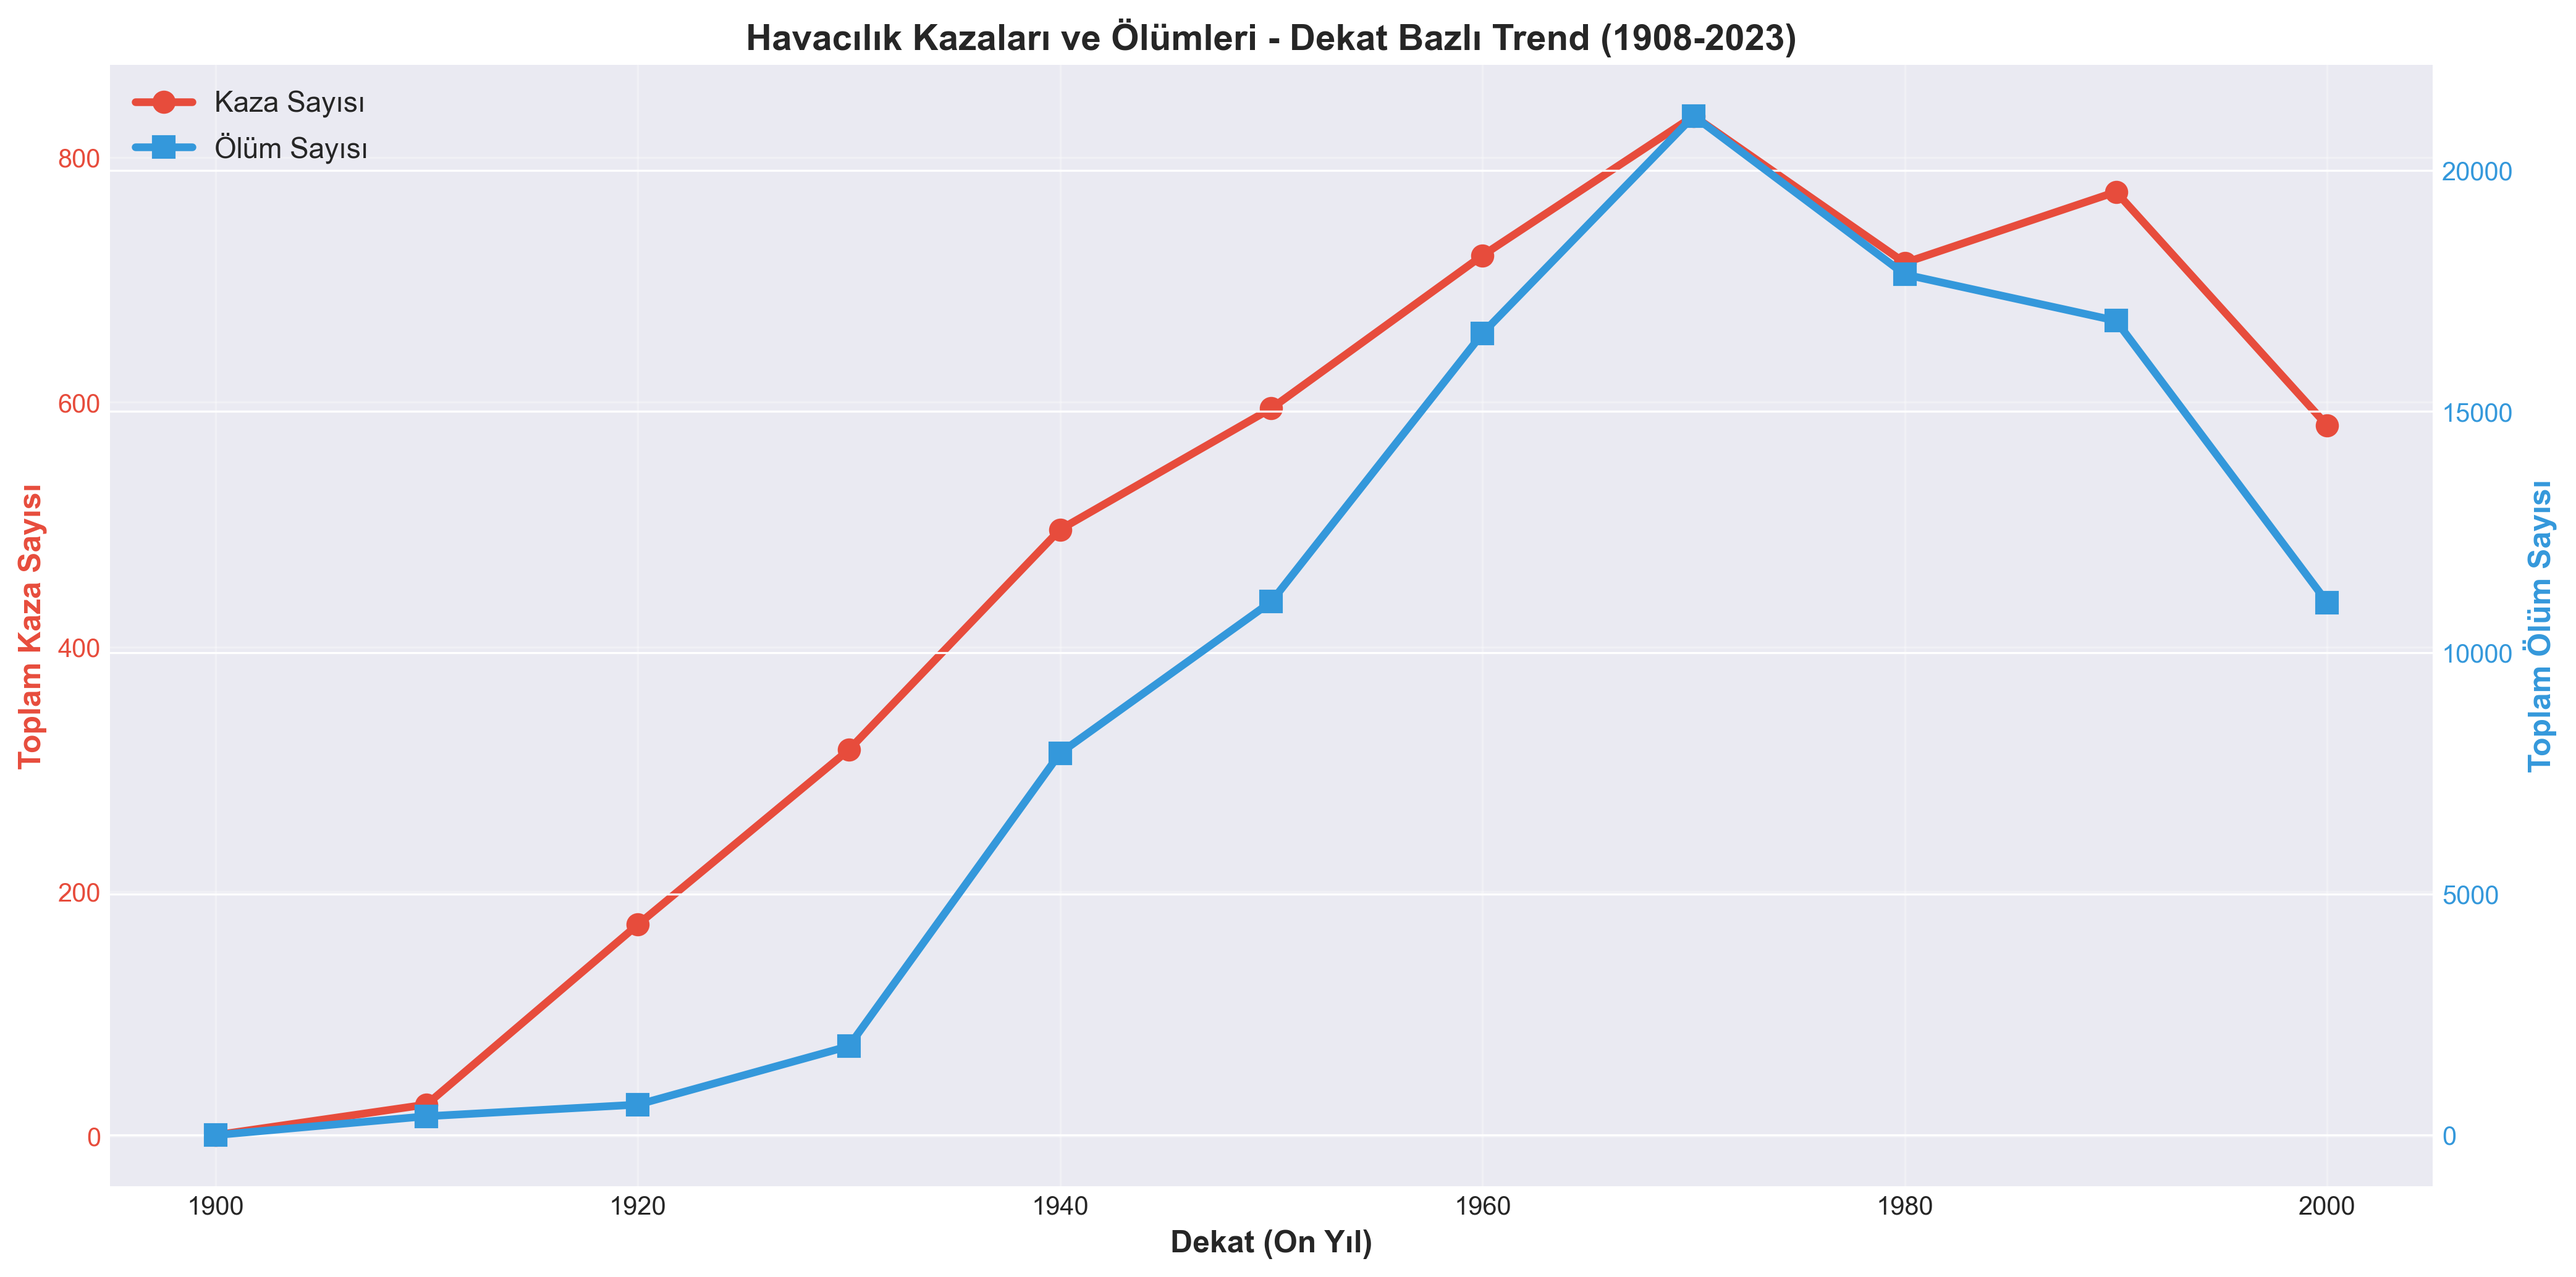
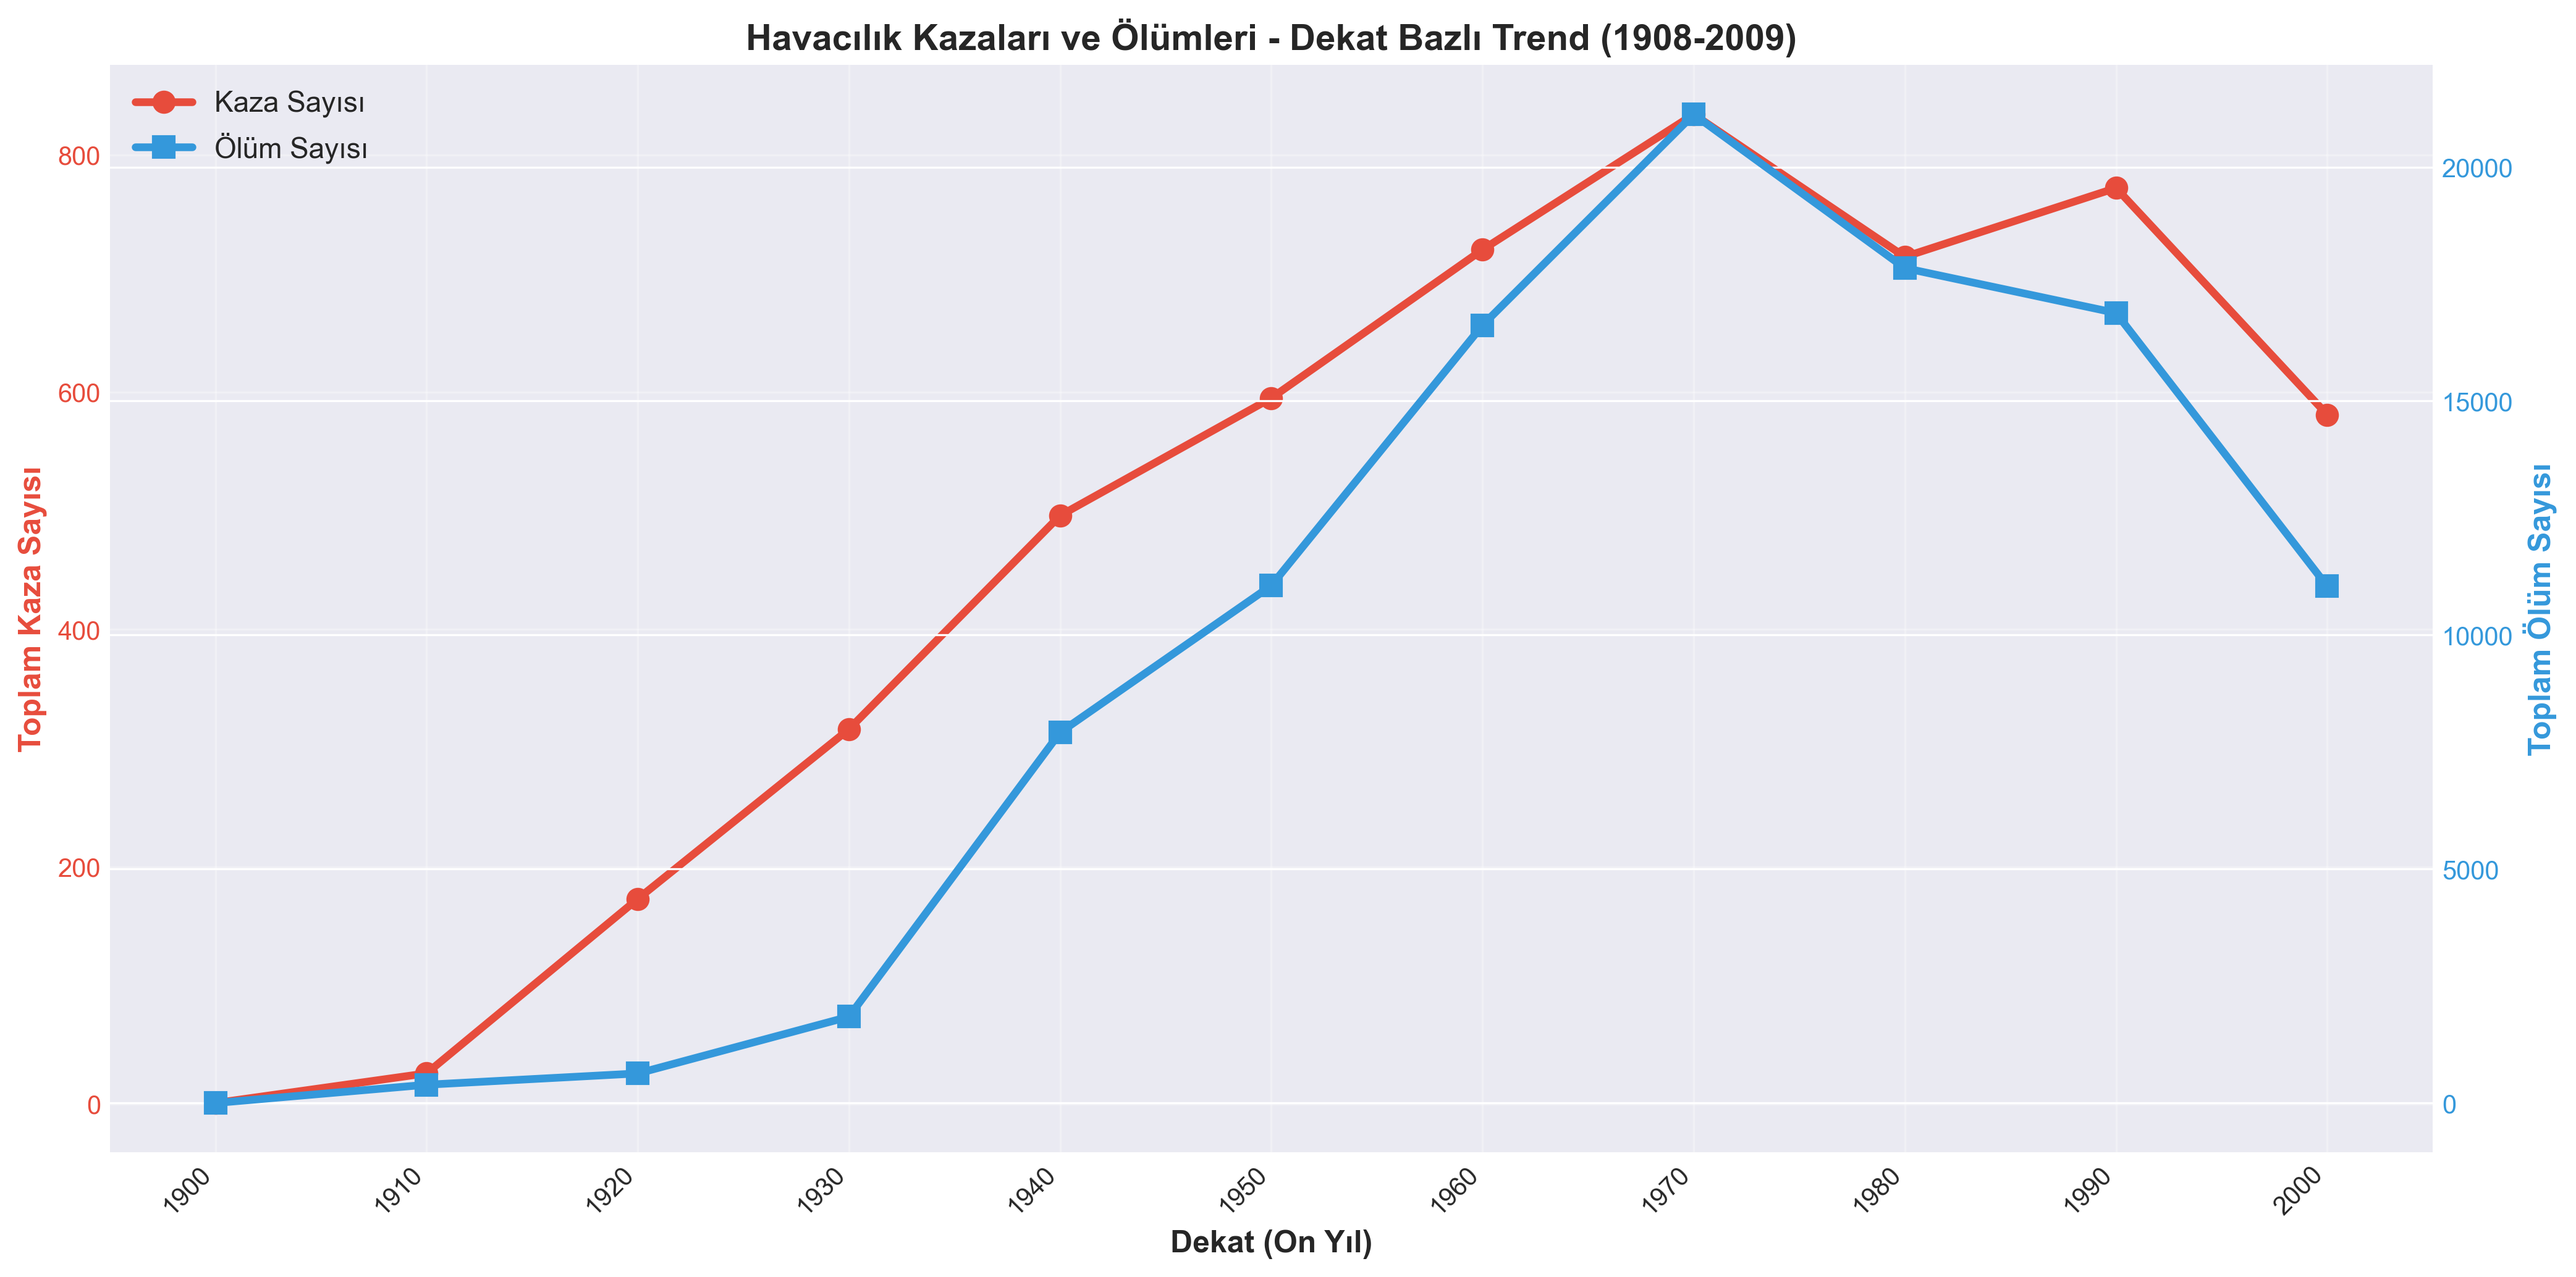
Update project with latest visualizations and metadata

diff --git a/advanced_visualizations.py b/advanced_visualizations.py
@@ -86,10 +86,10 @@ print("  ✓ Kaydedildi: viz_1_pie_military_vs_civil.png")
 plt.close()
 
 
-# GRAFİK 2: YATAY BAR CHART - En Çok Kaza Yapan 15 Operatör
+# GRAFİK 2: YATAY BAR CHART - En Çok Kaza Yapan 20 Operatör
 print("[2/10] Yatay Bar Chart: En Çok Kaza Yapan Operatörler")
 
-top_operators = df['Operator'].value_counts().head(15)
+top_operators = df['Operator'].value_counts().head(20)
 
 fig, ax = plt.subplots(figsize=(12, 8))
 bars = ax.barh(range(len(top_operators)), top_operators.values, 
@@ -98,7 +98,7 @@ bars = ax.barh(range(len(top_operators)), top_operators.values,
 ax.set_yticks(range(len(top_operators)))
 ax.set_yticklabels(top_operators.index, fontsize=10)
 ax.set_xlabel('Kaza Sayısı', fontsize=12, weight='bold')
-ax.set_title('En Çok Kaza Yapan 15 Operatör (1908-2023)', fontsize=14, weight='bold')
+ax.set_title(f'En Çok Kaza Yapan 20 Operatör ({df["Year"].min()}-{df["Year"].max()})', fontsize=14, weight='bold')
 ax.invert_yaxis()
 
 for i, (bar, value) in enumerate(zip(bars, top_operators.values)):
@@ -157,8 +157,12 @@ line2 = ax2.plot(decade_stats.index, decade_stats['Fatalities'],
                  color=color2, marker='s', linewidth=3, markersize=8, label='Ölüm Sayısı')
 ax2.tick_params(axis='y', labelcolor=color2)
 
-ax1.set_title('Havacılık Kazaları ve Ölümleri - Dekat Bazlı Trend (1908-2023)', 
+ax1.set_title(f'Havacılık Kazaları ve Ölümleri - Dekat Bazlı Trend ({df["Year"].min()}-{df["Year"].max()})', 
               fontsize=14, weight='bold')
+
+# X ekseninde tüm dekatları göster
+ax1.set_xticks(decade_stats.index)
+ax1.set_xticklabels(decade_stats.index, rotation=45, ha='right')
 
 lines = line1 + line2
 labels = [l.get_label() for l in lines]
@@ -293,8 +297,14 @@ ax.plot(cumulative_fatalities.index, cumulative_fatalities.values,
 
 ax.set_xlabel('Yıl', fontsize=12, weight='bold')
 ax.set_ylabel('Kümülatif Ölüm Sayısı', fontsize=12, weight='bold')
-ax.set_title('Havacılık Tarihinde Kümülatif Ölüm Sayısı (1908-2023)', 
+ax.set_title(f'Havacılık Tarihinde Kümülatif Ölüm Sayısı ({df["Year"].min()}-{df["Year"].max()})', 
              fontsize=14, weight='bold')
+
+# X ekseninde her 10 yılda bir etiket göster
+year_ticks = range(df['Year'].min(), df['Year'].max() + 1, 10)
+ax.set_xticks(year_ticks)
+ax.set_xticklabels(year_ticks, rotation=45, ha='right')
+
 ax.grid(True, alpha=0.3)
 ax.legend(fontsize=11)
 
@@ -313,7 +323,7 @@ plt.close()
 # GRAFİK 10: BOX PLOT - Dekatlara Göre Kaza Başına Ölüm Sayısı
 print("[10/10] Box Plot: Dekatlara Göre Kaza Başına Ölüm Dağılımı")
 
-# Son 100 yılı al (daha okunabilir olması için)
+# Son 100 yılı
 recent_df = df[df['Year'] >= 1920]
 
 fig, ax = plt.subplots(figsize=(14, 7))
@@ -332,7 +342,7 @@ for patch, color in zip(bp['boxes'], colors_box):
 
 ax.set_xlabel('Dekat', fontsize=12, weight='bold')
 ax.set_ylabel('Kaza Başına Ölüm Sayısı', fontsize=12, weight='bold')
-ax.set_title('Dekatlara Göre Kaza Başına Ölüm Sayısı Dağılımı (1920-2023)', 
+ax.set_title(f'Dekatlara Göre Kaza Başına Ölüm Sayısı Dağılımı (1920-{df["Year"].max()})', 
              fontsize=14, weight='bold')
 ax.grid(axis='y', alpha=0.3)
 ax.set_xticklabels(ax.get_xticklabels(), rotation=45)
